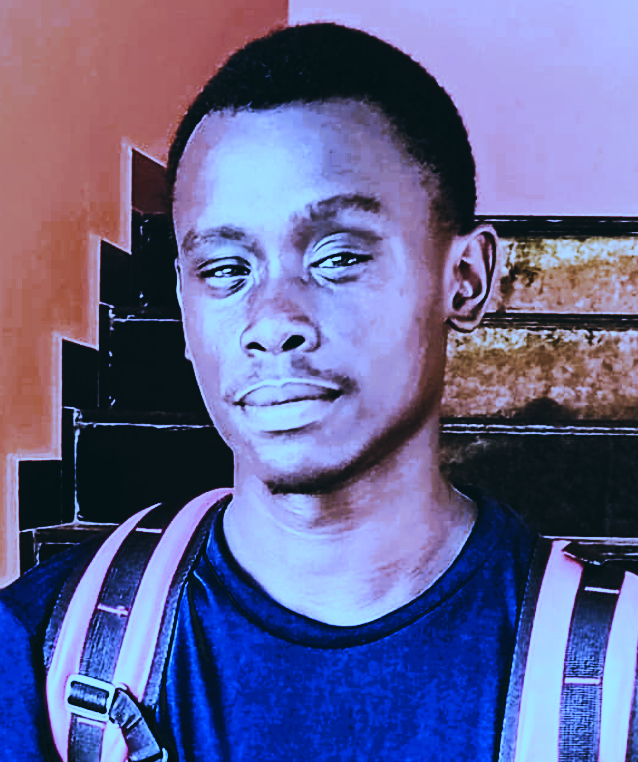
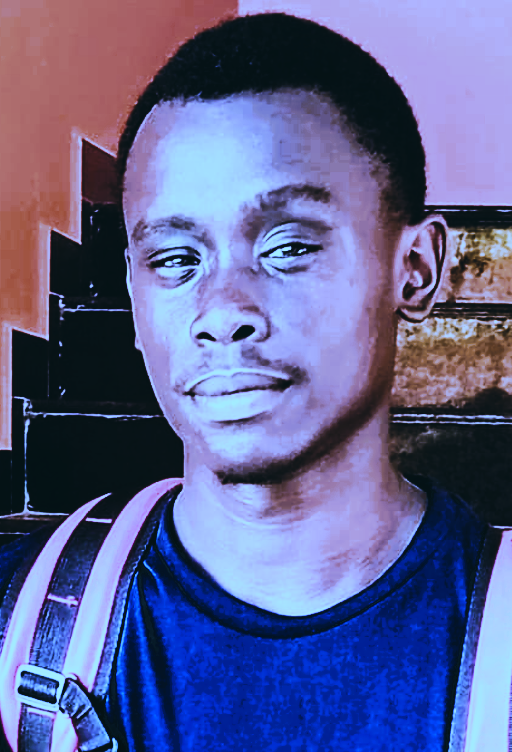
Add files via upload

diff --git a/css/style.css b/css/style.css
@@ -1,3 +1,9 @@
+/**
+* Template Name: GPortfolio
+* Updated: Nov 28 2023 with HTML CSS and JavaScript
+* Author: Goodness Adewuyi
+*/
+
 @import url("https://fonts.googleapis.com/css2?family=Poppins:ital,wght@0,100;0,200;0,300;0,400;0,500;0,600;0,700;0,800;0,900;1,100;1,200;1,300;1,400;1,500;1,600;1,700;1,800;1,900&display=swap");
 
 :root {
@@ -212,7 +218,7 @@ header.sticky .nav-bar {
 /*=======Home Section=======*/
 .home {
   position: relative;
-  max-width: 1280px;
+  max-width: 1250px;
   min-height: 100vh;
   margin-left: auto;
   margin-right: auto;
@@ -287,8 +293,8 @@ header.sticky .nav-bar {
 }
 
 .home-container .home-img img {
-  width: 70%;
-  border-radius: 500px 500px;
+  width: 80%;
+  border-radius: 500px;
   transform: translateX(0, 0);
   animation: imageanimates ease 2s infinite;
 }
@@ -1443,12 +1449,11 @@ footer a {
 
   .home-container .home-img {
     position: absolute;
-    width: 60%;
+    width: 40%;
   }
 
   .home-container .home-img img {
-    width: 65%;
-    transform: translate(80px, -180px);
+    transform: translate(90px, -180px);
     animation: imageanimates ease 2s infinite;
   }
 
@@ -1457,7 +1462,7 @@ footer a {
       transform: translateY(80px, -180px);
     }
     50% {
-      transform: scale(-1.01px);
+      transform: scaleY(0.8px);
     }
   }
 
@@ -1466,7 +1471,11 @@ footer a {
   }
 
   .media-icons {
-    margin-bottom: 70px;
+    margin-bottom: 20px;
+  }
+
+  .skills-info {
+    grid-template-columns: 1fr;
   }
 
   /*=======Get-in-touch section=======*/

diff --git a/index.html b/index.html
@@ -11,6 +11,12 @@
       href="https://cdnjs.cloudflare.com/ajax/libs/font-awesome/6.4.2/css/all.min.css"
     />
     <script src="https://unpkg.com/scrollreveal"></script>
+
+    <!-- =======================================================
+  * Template Name: GPortfolio
+  * Updated: Nov 28 2023 with Bootstrap v5.3.2
+  * Author: Goodness Adewuyi
+  ======================================================== -->
   </head>
   <body>
     <!--=======Scroll to top button=======-->
@@ -615,7 +621,7 @@
                     teacher to signup and setup an account. The application
                     allows the teacher to create an examination, provide both
                     student and teacher's answers then mark the student and
-                    shows the students performance. The result ia saved to a
+                    shows the students performance. The result is saved to a
                     spreadsheet that can be printed out.
                   </p>
                   <div class="learn-more-btn2">

diff --git a/js/main.js b/js/main.js
@@ -1,3 +1,9 @@
+/**
+ * Template Name: GPortfolio
+ * Updated: Nov 28 2023 with HTML CSS and JavaScript
+ * Author: Goodness Adewuyi
+ */
+
 // Navigation bar effects on scroll
 window.addEventListener("scroll", function () {
   const header = document.querySelector("header");
